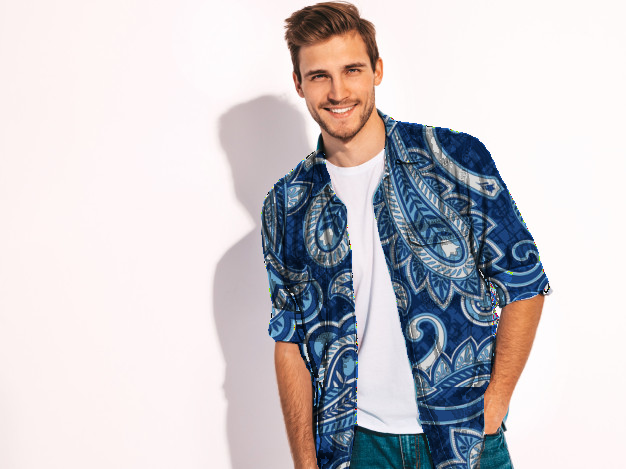
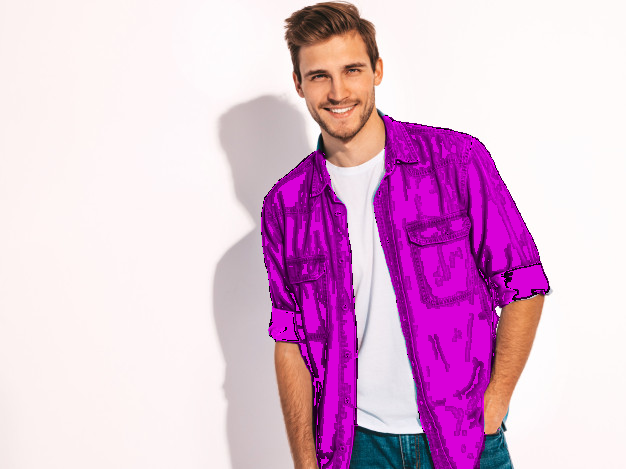
versio nova color

Changed region(s): [[0.3946, 0.2388, 0.8802, 1.0]]

diff --git a/Code/main.py b/Code/main.py
@@ -149,6 +149,34 @@ def change_colour(img, mask_uint8, colour_rgb):
     input_img_no_clothes = input_img_no_clothes*255
     plt.imshow(cv2.cvtColor(input_img_no_clothes, cv2.COLOR_BGR2RGB)), plt.suptitle('Source image minus mask'), plt.show()
 
+
+    im_shape = img.copy()
+
+    im_shape[:,:,0] = mask_uint8*img[:,:,0]
+    im_shape[:,:,1] = mask_uint8*img[:,:,1]
+    im_shape[:,:,2] = mask_uint8*img[:,:,2]
+
+    im_shape = im_shape * 255
+
+    plt.imshow(cv2.cvtColor(im_shape, cv2.COLOR_BGR2RGB)), plt.suptitle('label'), plt.show()
+
+    im_shape[:, :, 0] = cv2.Canny(im_shape[:, :, 0], 80, 160)
+    im_shape[:, :, 1] = cv2.Canny(im_shape[:, :, 1], 80, 160)
+    im_shape[:, :, 2] = cv2.Canny(im_shape[:, :, 2], 80, 160)
+
+    plt.imshow(cv2.cvtColor(im_shape, cv2.COLOR_BGR2RGB)), plt.suptitle('canny'), plt.show()
+
+    im_shape = im_shape.astype(bool)
+    im_shape_def = im_shape[:, :, 0] + im_shape[:, :, 1] + im_shape[:, :, 2]
+    im_shape_def= im_shape_def.astype('uint8')
+
+    kernel = np.ones((3, 3), np.uint8)
+    im_shape_def = cv2.dilate(im_shape_def, kernel, iterations=1)
+
+    plt.imshow(im_shape_def), plt.suptitle('tri_canny'), plt.show()
+
+
+        
     img_gray = cv2.cvtColor(img, cv2.COLOR_BGR2GRAY)
     img = np.zeros((img_gray.shape[0], img_gray.shape[1], 3))
     img[:,:,0] = img_gray
@@ -159,9 +187,13 @@ def change_colour(img, mask_uint8, colour_rgb):
     mask_uint8 = mask_uint8/255
     colour_rgb = colour_rgb/255
 
-    img[:,:,0] = img[:,:,0]*(mask_uint8*colour_rgb[0])
-    img[:,:,1] = img[:,:,1]*(mask_uint8*colour_rgb[1])
-    img[:,:,2] = img[:,:,2]*(mask_uint8*colour_rgb[2])
+    masked_non_shape = mask_uint8 - im_shape_def.astype("float64")
+    img[masked_non_shape > 0] = 0.85
+    img[masked_non_shape == 0] *= 1.5
+    # np.multiply(m, m) multiplicación punto a punto de dos matrices. Funciona pero need to me same size
+    img[:, :, 0] = np.multiply(img[:, :, 0], (mask_uint8 * colour_rgb[0]))
+    img[:, :, 1] = np.multiply(img[:, :, 1], (mask_uint8 * colour_rgb[1]))
+    img[:, :, 2] = np.multiply(img[:, :, 2], (mask_uint8 * colour_rgb[2]))
 
     img = img*255
     img = img.astype('uint8')
@@ -211,7 +243,7 @@ if __name__ == "__main__":
     labels_in_image = return_labels(im_output, LABELS_utils, colors)
     
     LABELS_K_VOLS = ['Coat']
-    rgbs = [[50, 231, 241], [128,128,128]]
+    rgbs = [[255,0,255],[50, 231, 241], [128,128,128]]
 
     for x, label in enumerate(LABELS_K_VOLS):
         cloth_in_image, mask = is_label_in_image(im_output, label, LABELS_utils, colors)
@@ -226,8 +258,8 @@ if __name__ == "__main__":
 
         pattern=cv2.imread('patterns/blue_feathers.jpg')
 
-        #im_input = change_colour(im_input, mask_uint8, rgb)
-        im_input = change_pattern(im_input, mask_uint8, pattern)
+        im_input = change_colour(im_input, mask_uint8, rgb)
+        #im_input = change_pattern(im_input, mask_uint8, pattern)
         plt.imshow(cv2.cvtColor(im_input, cv2.COLOR_BGR2RGB)), plt.suptitle('Final Result'), plt.show()
 
 
